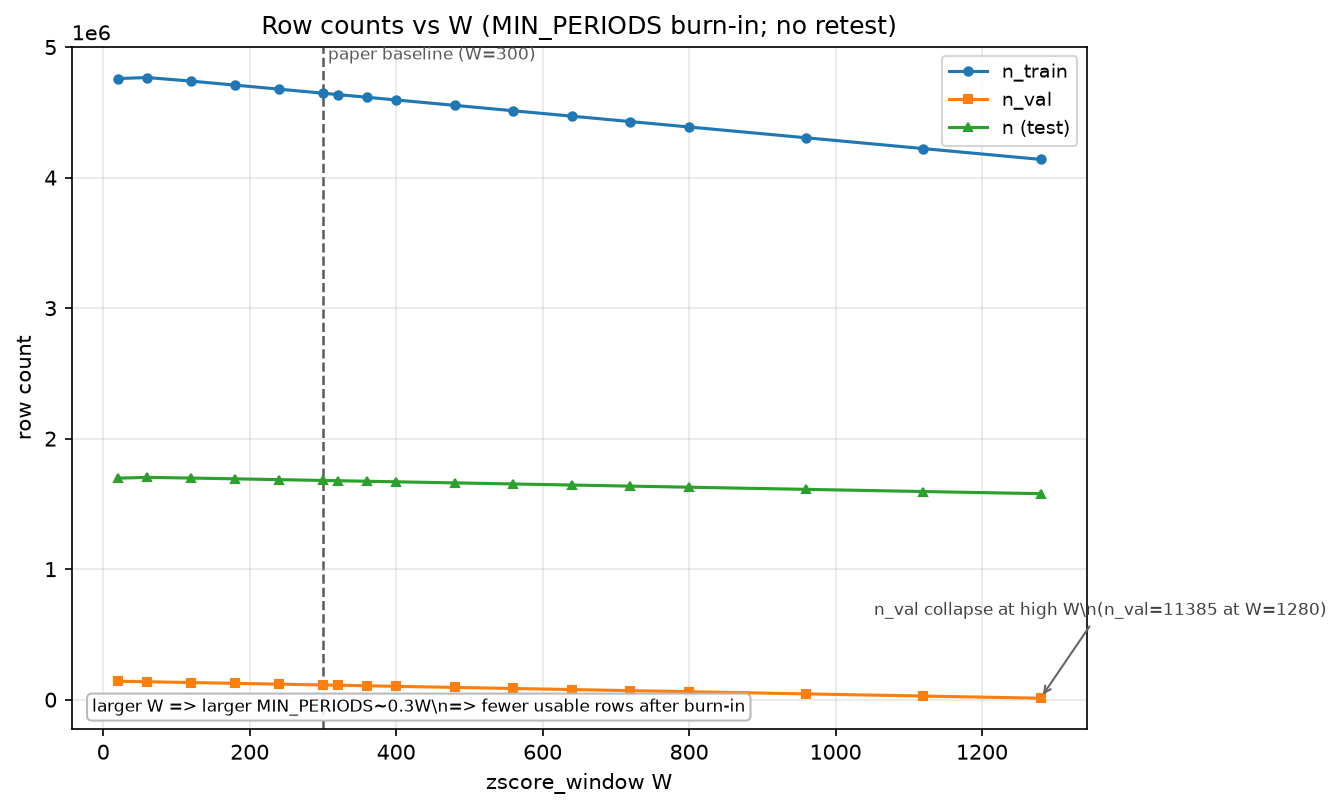
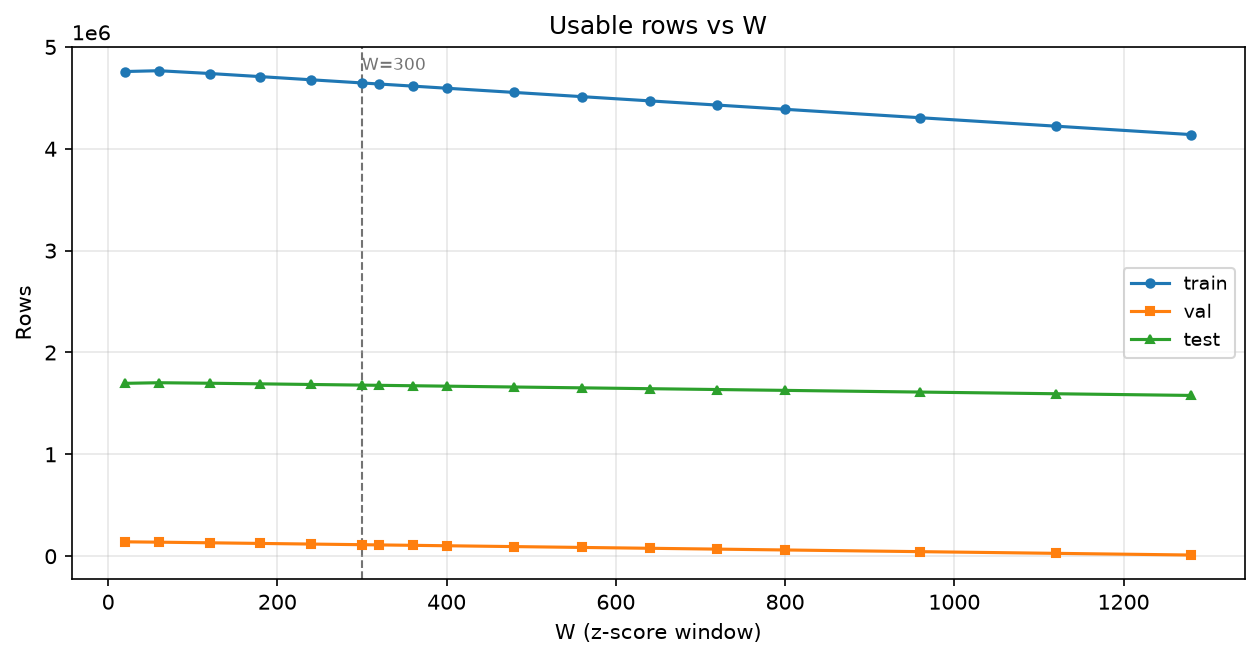
Clean up W-sensitivity R2/DirAcc figure for review feedback.

diff --git a/statarb/outputs_w_sweep/plot_w_sensitivity.py b/statarb/outputs_w_sweep/plot_w_sensitivity.py
@@ -16,124 +16,83 @@ BASELINE_W = 300
 def load_lgbm(csv_path: Path) -> pd.DataFrame:
     df = pd.read_csv(csv_path)
     out = df.loc[df["model"] == "lgbm_reg"].copy()
-    out = out.sort_values("zscore_window")
-    return out
+    return out.sort_values("zscore_window")
 
 
 def add_baseline_vline(ax) -> None:
-    ax.axvline(BASELINE_W, color="0.35", linestyle="--", linewidth=1.2, zorder=0)
-    ymin, ymax = ax.get_ylim()
+    ax.axvline(BASELINE_W, color="0.45", linestyle="--", linewidth=1.0, zorder=0)
     ax.text(
         BASELINE_W,
-        ymax,
-        " paper baseline (W=300)",
+        0.98,
+        "W=300",
+        transform=ax.get_xaxis_transform(),
         va="top",
         ha="left",
         fontsize=8,
-        color="0.35",
+        color="0.45",
+        clip_on=False,
     )
 
 
-def plot_sample_size(ax, d: pd.DataFrame, title: str | None = None) -> None:
+def plot_sample_size(ax, d: pd.DataFrame) -> None:
     w = d["zscore_window"]
-    ax.plot(w, d["n_train"], "o-", label="n_train", markersize=4)
-    ax.plot(w, d["n_val"], "s-", label="n_val", markersize=4)
-    ax.plot(w, d["n"], "^-", label="n (test)", markersize=4)
-    ax.set_xlabel("zscore_window W")
-    ax.set_ylabel("row count")
-    ax.set_title(title or "Row counts vs W (MIN_PERIODS burn-in; no retest)")
+    ax.plot(w, d["n_train"], "o-", label="train", markersize=4)
+    ax.plot(w, d["n_val"], "s-", label="val", markersize=4)
+    ax.plot(w, d["n"], "^-", label="test", markersize=4)
+    ax.set_xlabel("W (z-score window)")
+    ax.set_ylabel("Rows")
+    ax.set_title("Usable rows vs W")
     ax.legend(loc="best", fontsize=9)
     ax.grid(True, alpha=0.3)
     add_baseline_vline(ax)
-    ax.annotate(
-        "larger W => larger MIN_PERIODS~0.3W\\n=> fewer usable rows after burn-in",
-        xy=(0.02, 0.02),
-        xycoords="axes fraction",
-        fontsize=8,
-        va="bottom",
-        ha="left",
-        bbox=dict(boxstyle="round,pad=0.3", facecolor="white", edgecolor="0.7", alpha=0.9),
-    )
-    w_hi = d["zscore_window"].iloc[-1]
-    n_val_hi = float(d["n_val"].iloc[-1])
-    ax.annotate(
-        f"n_val collapse at high W\\n(n_val={n_val_hi:.0f} at W={w_hi})",
-        xy=(w_hi, n_val_hi),
-        xytext=(-80, 40),
-        textcoords="offset points",
-        fontsize=8,
-        arrowprops=dict(arrowstyle="->", color="0.4"),
-        color="0.25",
-    )
 
 
 def main() -> None:
     d = load_lgbm(CSV_PATH)
-    has_n_train = "n_train" in d.columns
-    has_n_val = "n_val" in d.columns
-    has_n = "n" in d.columns
-    print(f"Loaded: {CSV_PATH}")
-    print(f"lgbm_reg rows: {len(d)}; W range: {d['zscore_window'].min()} .. {d['zscore_window'].max()}")
-    print(f"columns n_train exist: {has_n_train}")
-    print(f"columns n_val exist: {has_n_val}")
-    print(f"columns n exist: {has_n}")
-
     w = d["zscore_window"]
+    print(f"Loaded {len(d)} lgbm_reg rows from {CSV_PATH}")
 
-    fig, axes = plt.subplots(3, 1, figsize=(8.5, 10.5), sharex=True)
-    fig.suptitle(
-        "LightGBM W sensitivity -- TEST-set metrics (jul25_28 holdout)",
-        fontsize=12,
-        y=0.995,
-    )
+    fig, axes = plt.subplots(2, 1, figsize=(8.5, 7.0), sharex=False)
+    fig.suptitle("Z-score window sensitivity (Jul25 test)", fontsize=13)
 
     ax = axes[0]
-    ax.plot(w, d["r2"], "o-", label="r2", markersize=4)
-    ax.plot(w, d["r2_tau0.5"], "s-", label="r2 |pred|>0.5", markersize=4)
-    ax.set_ylabel("R2")
-    ax.set_title(
-        "Test R2 vs W (jul25_28 holdout)\\n"
-        "Validation (jul19_pre) used only for early stopping -- NOT plotted as skill"
-    )
+    ax.plot(w, d["r2"], "o-", label=r"$R^2$", markersize=5)
+    ax.plot(w, d["r2_tau0.5"], "s-", label=r"$R^2$ ($|\mathrm{pred}| > 0.5$)", markersize=5)
+    ax.set_xlabel("W (z-score window)")
+    ax.set_ylabel(r"$R^2$")
+    ax.set_title(r"Test $R^2$")
     ax.legend(loc="best", fontsize=9)
     ax.grid(True, alpha=0.3)
     add_baseline_vline(ax)
 
     ax = axes[1]
-    ax.plot(w, d["dir_acc"], "o-", label="dir_acc", markersize=4)
-    ax.plot(w, d["dir_acc_tau0.5"], "s-", label="dir_acc |pred|>0.5", markersize=4)
+    ax.plot(w, d["dir_acc"], "o-", label="DirAcc", markersize=5)
+    ax.plot(
+        w,
+        d["dir_acc_tau0.5"],
+        "s-",
+        label=r"DirAcc ($|\mathrm{pred}| > 0.5$)",
+        markersize=5,
+    )
+    ax.set_xlabel("W (z-score window)")
     ax.set_ylabel("DirAcc")
-    ax.set_title("Test DirAcc vs W (jul25_28 holdout)")
+    ax.set_title("Test directional accuracy")
     ax.legend(loc="best", fontsize=9)
     ax.grid(True, alpha=0.3)
     add_baseline_vline(ax)
 
-    ax = axes[2]
-    if has_n_train and has_n_val and has_n:
-        plot_sample_size(ax, d)
-    else:
-        ax.text(0.5, 0.5, "n_train / n_val / n columns missing", ha="center", va="center")
-    axes[2].set_xlabel("zscore_window W")
-
-    fig.tight_layout(rect=[0, 0, 1, 0.98])
-    fig.subplots_adjust(hspace=0.38)
+    fig.tight_layout(rect=[0, 0, 1, 0.96])
     fig.savefig(OUT_MAIN, dpi=150, bbox_inches="tight")
     plt.close(fig)
-    print(f"Wrote: {OUT_MAIN}")
+    print(f"Wrote {OUT_MAIN}")
 
-    if has_n_train and has_n_val and has_n:
-        fig2, ax2 = plt.subplots(figsize=(9, 5.5))
-        plot_sample_size(
-            ax2,
-            d,
-            title="Row counts vs W (MIN_PERIODS burn-in; no retest)",
-        )
+    if {"n_train", "n_val", "n"}.issubset(d.columns):
+        fig2, ax2 = plt.subplots(figsize=(8.5, 4.5))
+        plot_sample_size(ax2, d)
         fig2.tight_layout()
         fig2.savefig(OUT_N, dpi=150, bbox_inches="tight")
         plt.close(fig2)
-        print(f"Wrote: {OUT_N}")
-    else:
-        print(f"Skipped sample-size figure (missing columns): {OUT_N}")
+        print(f"Wrote {OUT_N}")
 
 
 if __name__ == "__main__":
